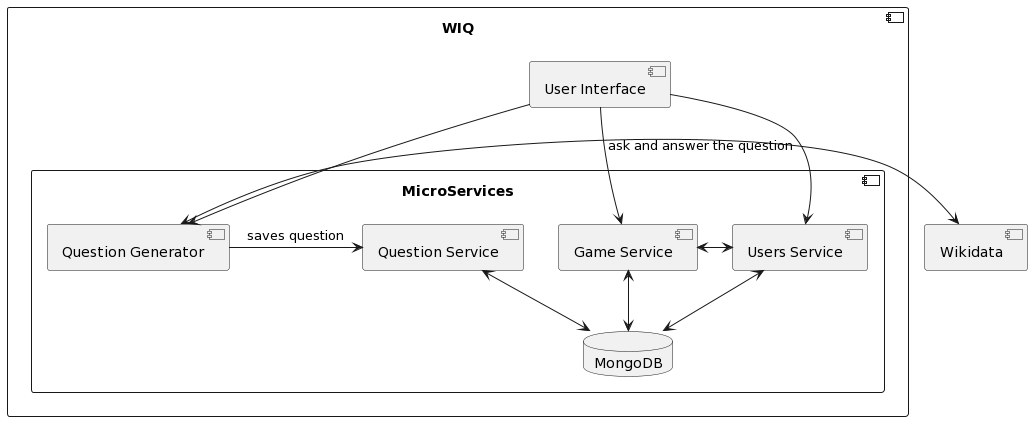
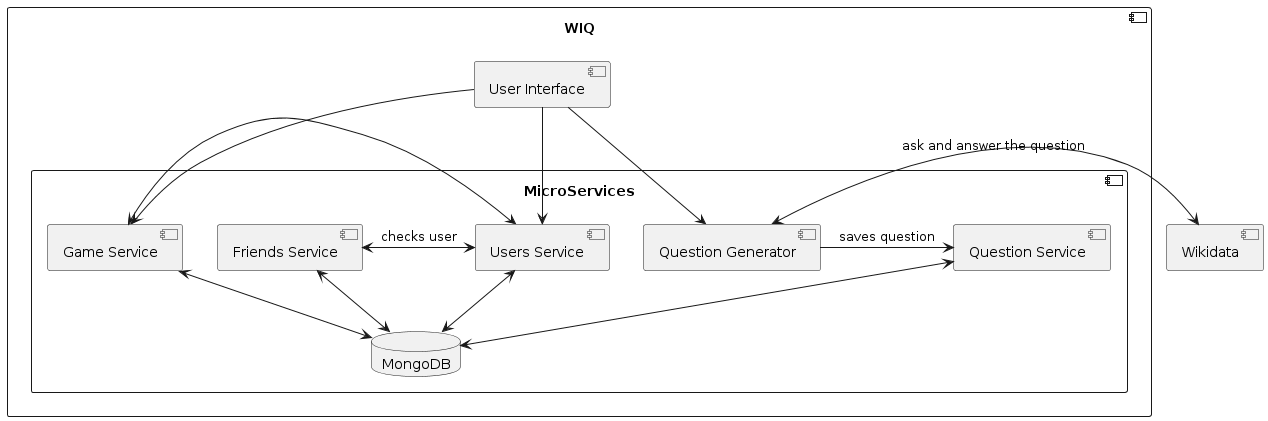
Updates

diff --git a/index.html b/index.html
@@ -1210,6 +1210,10 @@ The main constraints are developing the game as a web app and using Wikidata to 
 <td class="tableblock halign-left valign-top"><p class="tableblock"><strong><em>Question Service</em></strong></p></td>
 <td class="tableblock halign-left valign-top"><p class="tableblock">Saves the questions.</p></td>
 </tr>
+<tr>
+<td class="tableblock halign-left valign-top"><p class="tableblock"><strong><em>Friend Service</em></strong></p></td>
+<td class="tableblock halign-left valign-top"><p class="tableblock">Allows to add, list and remove other users of the app as friends.</p></td>
+</tr>
 </tbody>
 </table>
 <div style="page-break-after: always;"></div>
